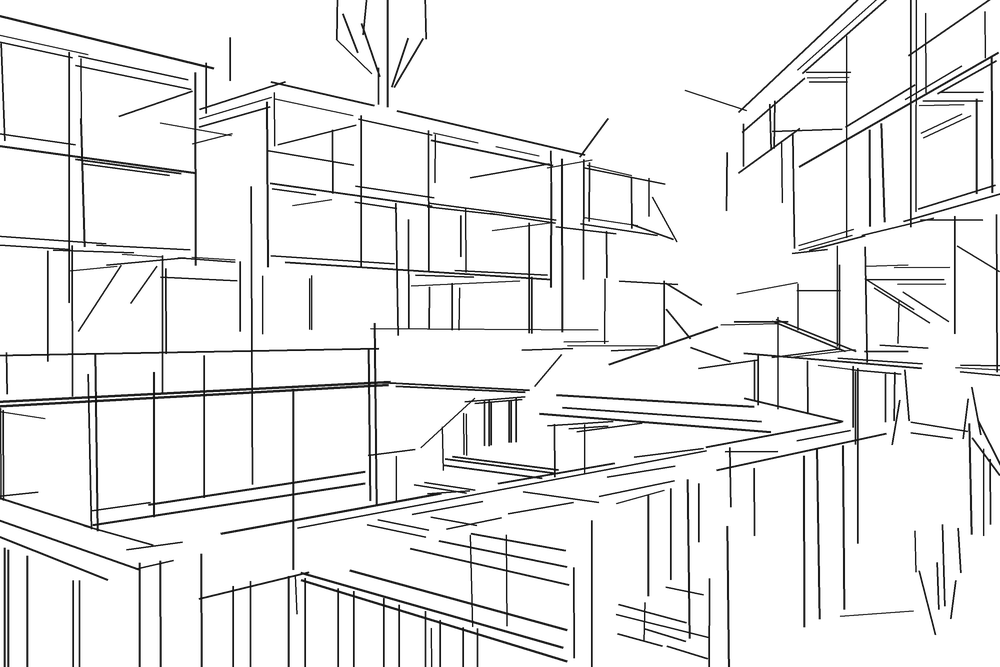
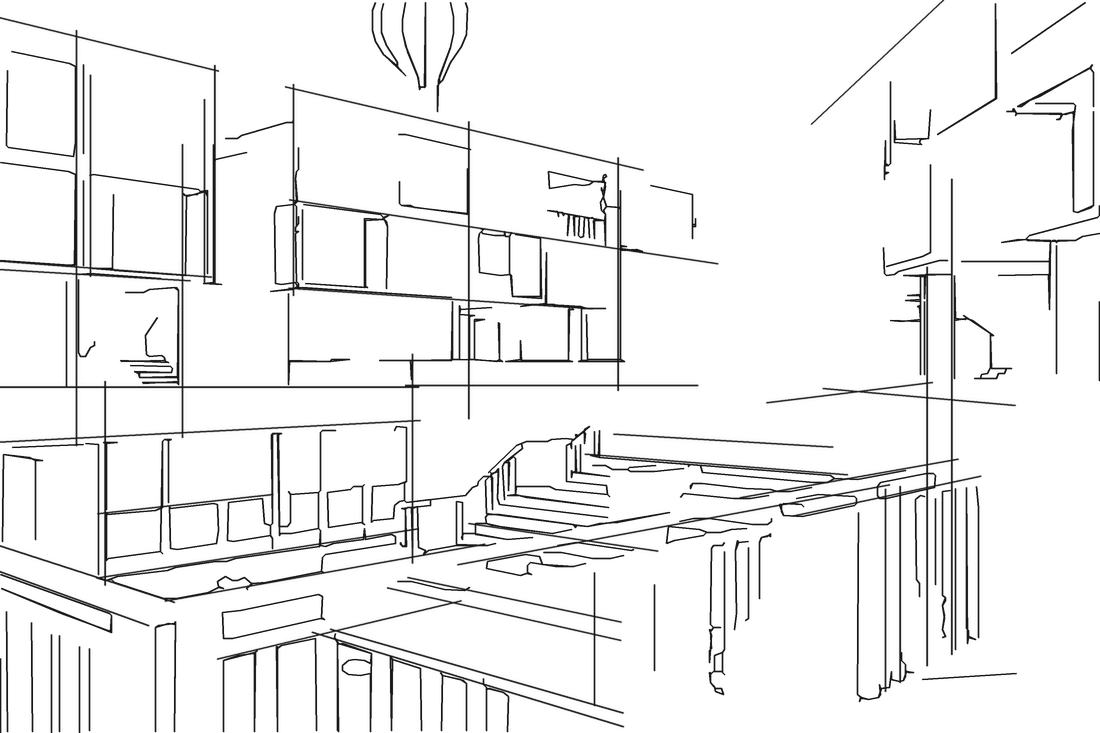
Tracing paper: steadier contour tracing; one credited public-domain section in the homepage flow

diff --git a/zh/index.html b/zh/index.html
@@ -25,10 +25,11 @@
 
 <section class="tp">
 <article class="tset" style="--ar:1.3333"><div class="st"><figure class="desk"><img class="ph" src="../img/westfall-hillside-house/img_00_cover.jpg" alt="" loading="eager"><div class="paper"><img class="ink" src="../img/ink/westfall-hillside-house.png" alt="西崖山地别墅"></div></figure><p class="tcap"><span class="mute">01</span> <a class="u" href="westfall-hillside-house.html">西崖山地别墅</a> <span class="mute">2025</span></p></div></article>
-<article class="tset" style="--ar:1.4993"><div class="st"><figure class="desk"><img class="ph" src="../img/beck-corner-apartment/img_00_cover.jpg" alt="" loading="lazy"><div class="paper"><img class="ink" src="../img/ink/beck-corner-apartment.png" alt="贝克街保障住房"></div></figure><p class="tcap"><span class="mute">02</span> <a class="u" href="beck-corner-apartment.html">贝克街保障住房</a> <span class="mute">2023–2025</span></p></div></article>
-<article class="tset" style="--ar:1.4993"><div class="st"><figure class="desk"><img class="ph" src="../img/798-artist-district/img_00_cover.jpg" alt="" loading="lazy"><div class="paper"><img class="ink" src="../img/ink/798-artist-district.png" alt="798 艺术家生活集"></div></figure><p class="tcap"><span class="mute">03</span> <a class="u" href="798-artist-district.html">798 艺术家生活集</a> <span class="mute">2018</span></p></div></article>
-<article class="tset" style="--ar:1.4993"><div class="st"><figure class="desk"><img class="ph" src="../img/ashton-house-remodel/img_00_cover.jpg" alt="" loading="lazy"><div class="paper"><img class="ink" src="../img/ink/ashton-house-remodel.png" alt="阿什顿街住宅翻新"></div></figure><p class="tcap"><span class="mute">04</span> <a class="u" href="ashton-house-remodel.html">阿什顿街住宅翻新</a> <span class="mute">2025</span></p></div></article>
-<article class="tset" style="--ar:4.0816"><div class="st"><figure class="desk"><img class="ph" src="../img/pku-teaching-building/dwg_south-elev.jpg" alt="" loading="lazy"><div class="paper"><img class="ink" src="../img/ink/pku-teaching-building.png" alt="北京大学马克思主义学院教学楼"></div></figure><p class="tcap"><span class="mute">05</span> <a class="u" href="pku-marxism-school-building.html">北京大学马克思主义学院教学楼</a> <span class="mute">2019</span></p></div></article>
+<article class="tset ref" style="--ar:2.0909"><div class="st"><figure class="desk"><img class="ph" src="../img/refs/schinkel_scan.jpg" alt="" loading="lazy"><div class="paper"><img class="ink" src="../img/refs/schinkel_ink.png" alt=""></div></figure><p class="tcap"><span class="mute">风格参考，非本人作品:</span> <a class="u" href="styles.html">卡尔·弗里德里希·申克尔, 1824</a></p></div></article>
+<article class="tset" style="--ar:1.5007"><div class="st"><figure class="desk"><img class="ph" src="../img/beck-corner-apartment/img_00_cover.jpg" alt="" loading="lazy"><div class="paper"><img class="ink" src="../img/ink/beck-corner-apartment.png" alt="贝克街保障住房"></div></figure><p class="tcap"><span class="mute">02</span> <a class="u" href="beck-corner-apartment.html">贝克街保障住房</a> <span class="mute">2023–2025</span></p></div></article>
+<article class="tset" style="--ar:1.5007"><div class="st"><figure class="desk"><img class="ph" src="../img/798-artist-district/img_00_cover.jpg" alt="" loading="lazy"><div class="paper"><img class="ink" src="../img/ink/798-artist-district.png" alt="798 艺术家生活集"></div></figure><p class="tcap"><span class="mute">03</span> <a class="u" href="798-artist-district.html">798 艺术家生活集</a> <span class="mute">2018</span></p></div></article>
+<article class="tset" style="--ar:1.5007"><div class="st"><figure class="desk"><img class="ph" src="../img/ashton-house-remodel/img_00_cover.jpg" alt="" loading="lazy"><div class="paper"><img class="ink" src="../img/ink/ashton-house-remodel.png" alt="阿什顿街住宅翻新"></div></figure><p class="tcap"><span class="mute">04</span> <a class="u" href="ashton-house-remodel.html">阿什顿街住宅翻新</a> <span class="mute">2025</span></p></div></article>
+<article class="tset" style="--ar:4.0892"><div class="st"><figure class="desk"><img class="ph" src="../img/pku-teaching-building/dwg_south-elev.jpg" alt="" loading="lazy"><div class="paper"><img class="ink" src="../img/ink/pku-teaching-building.png" alt="北京大学马克思主义学院教学楼"></div></figure><p class="tcap"><span class="mute">05</span> <a class="u" href="pku-marxism-school-building.html">北京大学马克思主义学院教学楼</a> <span class="mute">2019</span></p></div></article>
 </section>
 
 <section class="grid tp-index"><h2 class="caps">作品</h2><ul><li><a href="798-artist-district.html">798 艺术家生活集</a><span class="mute">2018</span></li><li><a href="downstairs-bazaar.html">楼下生活集</a><span class="mute">2020</span></li><li><a href="seedlings.html">新绿幼儿园</a><span class="mute">2018</span></li><li><a href="river-lantern.html">河灯</a><span class="mute">2020</span></li><li><a href="westfall-hillside-house.html">西崖山地别墅</a><span class="mute">2025</span></li><li><a href="the-ark.html">方舟</a><span class="mute">2019</span></li><li><a href="ashton-house-remodel.html">阿什顿街住宅翻新</a><span class="mute">2025</span></li><li><a href="pku-marxism-school-building.html">北京大学马克思主义学院教学楼</a><span class="mute">2019</span></li><li><a href="beck-corner-apartment.html">贝克街保障住房</a><span class="mute">2023–2025</span></li></ul></section>

diff --git a/index.html b/index.html
@@ -25,10 +25,11 @@
 
 <section class="tp">
 <article class="tset" style="--ar:1.3333"><div class="st"><figure class="desk"><img class="ph" src="img/westfall-hillside-house/img_00_cover.jpg" alt="" loading="eager"><div class="paper"><img class="ink" src="img/ink/westfall-hillside-house.png" alt="Westfall Hillside House"></div></figure><p class="tcap"><span class="mute">01</span> <a class="u" href="westfall-hillside-house.html">Westfall Hillside House</a> <span class="mute">2025</span></p></div></article>
-<article class="tset" style="--ar:1.4993"><div class="st"><figure class="desk"><img class="ph" src="img/beck-corner-apartment/img_00_cover.jpg" alt="" loading="lazy"><div class="paper"><img class="ink" src="img/ink/beck-corner-apartment.png" alt="Beck Corner Apartment"></div></figure><p class="tcap"><span class="mute">02</span> <a class="u" href="beck-corner-apartment.html">Beck Corner Apartment</a> <span class="mute">2023–2025</span></p></div></article>
-<article class="tset" style="--ar:1.4993"><div class="st"><figure class="desk"><img class="ph" src="img/798-artist-district/img_00_cover.jpg" alt="" loading="lazy"><div class="paper"><img class="ink" src="img/ink/798-artist-district.png" alt="The Collage Community"></div></figure><p class="tcap"><span class="mute">03</span> <a class="u" href="798-artist-district.html">The Collage Community</a> <span class="mute">2018</span></p></div></article>
-<article class="tset" style="--ar:1.4993"><div class="st"><figure class="desk"><img class="ph" src="img/ashton-house-remodel/img_00_cover.jpg" alt="" loading="lazy"><div class="paper"><img class="ink" src="img/ink/ashton-house-remodel.png" alt="Ashton House Remodel"></div></figure><p class="tcap"><span class="mute">04</span> <a class="u" href="ashton-house-remodel.html">Ashton House Remodel</a> <span class="mute">2025</span></p></div></article>
-<article class="tset" style="--ar:4.0816"><div class="st"><figure class="desk"><img class="ph" src="img/pku-teaching-building/dwg_south-elev.jpg" alt="" loading="lazy"><div class="paper"><img class="ink" src="img/ink/pku-teaching-building.png" alt="Marxism School Building, PKU"></div></figure><p class="tcap"><span class="mute">05</span> <a class="u" href="pku-marxism-school-building.html">Marxism School Building, PKU</a> <span class="mute">2019</span></p></div></article>
+<article class="tset ref" style="--ar:2.0909"><div class="st"><figure class="desk"><img class="ph" src="img/refs/schinkel_scan.jpg" alt="" loading="lazy"><div class="paper"><img class="ink" src="img/refs/schinkel_ink.png" alt=""></div></figure><p class="tcap"><span class="mute">Style reference, not my work:</span> <a class="u" href="styles.html">Karl Friedrich Schinkel, 1824</a></p></div></article>
+<article class="tset" style="--ar:1.5007"><div class="st"><figure class="desk"><img class="ph" src="img/beck-corner-apartment/img_00_cover.jpg" alt="" loading="lazy"><div class="paper"><img class="ink" src="img/ink/beck-corner-apartment.png" alt="Beck Corner Apartment"></div></figure><p class="tcap"><span class="mute">02</span> <a class="u" href="beck-corner-apartment.html">Beck Corner Apartment</a> <span class="mute">2023–2025</span></p></div></article>
+<article class="tset" style="--ar:1.5007"><div class="st"><figure class="desk"><img class="ph" src="img/798-artist-district/img_00_cover.jpg" alt="" loading="lazy"><div class="paper"><img class="ink" src="img/ink/798-artist-district.png" alt="The Collage Community"></div></figure><p class="tcap"><span class="mute">03</span> <a class="u" href="798-artist-district.html">The Collage Community</a> <span class="mute">2018</span></p></div></article>
+<article class="tset" style="--ar:1.5007"><div class="st"><figure class="desk"><img class="ph" src="img/ashton-house-remodel/img_00_cover.jpg" alt="" loading="lazy"><div class="paper"><img class="ink" src="img/ink/ashton-house-remodel.png" alt="Ashton House Remodel"></div></figure><p class="tcap"><span class="mute">04</span> <a class="u" href="ashton-house-remodel.html">Ashton House Remodel</a> <span class="mute">2025</span></p></div></article>
+<article class="tset" style="--ar:4.0892"><div class="st"><figure class="desk"><img class="ph" src="img/pku-teaching-building/dwg_south-elev.jpg" alt="" loading="lazy"><div class="paper"><img class="ink" src="img/ink/pku-teaching-building.png" alt="Marxism School Building, PKU"></div></figure><p class="tcap"><span class="mute">05</span> <a class="u" href="pku-marxism-school-building.html">Marxism School Building, PKU</a> <span class="mute">2019</span></p></div></article>
 </section>
 
 <section class="grid tp-index"><h2 class="caps">Work</h2><ul><li><a href="798-artist-district.html">The Collage Community</a><span class="mute">2018</span></li><li><a href="downstairs-bazaar.html">Downstairs Bazaar</a><span class="mute">2020</span></li><li><a href="seedlings.html">Seedlings</a><span class="mute">2018</span></li><li><a href="river-lantern.html">River Lantern</a><span class="mute">2020</span></li><li><a href="westfall-hillside-house.html">Westfall Hillside House</a><span class="mute">2025</span></li><li><a href="the-ark.html">The Ark</a><span class="mute">2019</span></li><li><a href="ashton-house-remodel.html">Ashton House Remodel</a><span class="mute">2025</span></li><li><a href="pku-marxism-school-building.html">Marxism School Building, PKU</a><span class="mute">2019</span></li><li><a href="beck-corner-apartment.html">Beck Corner Apartment</a><span class="mute">2023–2025</span></li></ul></section>

diff --git a/src/ink2.py b/src/ink2.py
@@ -1,0 +1,160 @@
+"""Contour ink tracing (exp branches only), second approach.
+Straight structural lines (LSD, merged, snapped, joined at corners) plus
+skeletonised XDoG contours simplified to polylines, all at one steady pen weight.
+Foliage (green, saturated areas) is left out, as in a measured drawing."""
+import sys, math
+import numpy as np, cv2
+from PIL import Image, ImageDraw
+from skimage.morphology import skeletonize
+INK=(22,22,22)
+
+def lines_of(g, W):
+    H=g.shape[0]
+    lsd=cv2.createLineSegmentDetector(cv2.LSD_REFINE_STD)
+    L=lsd.detect(g)[0]
+    return [] if L is None else L.reshape(-1,4)
+
+def contrast(gf,W,H,x0,y0,x1,y1):
+    n=np.array([y0-y1,x1-x0]);l=np.hypot(*n) or 1;n=n/l*3
+    ts=np.linspace(.15,.85,9);xs=x0+(x1-x0)*ts;ys=y0+(y1-y0)*ts
+    def s(dx,dy):
+        return gf[np.clip((ys+dy).astype(int),0,H-1),np.clip((xs+dx).astype(int),0,W-1)]
+    return float(np.abs(s(*n)-s(*-n)).mean())
+
+def merge(items, gap, dang=2.5, drho=3):
+    items=sorted(items,key=lambda r:-r[5]); used=[False]*len(items); out=[]
+    for i,a in enumerate(items):
+        if used[i]: continue
+        th=a[0];ux,uy=math.cos(th),math.sin(th);nx,ny=-uy,ux
+        rho=a[1]*nx+a[2]*ny; ts=[a[1]*ux+a[2]*uy,a[3]*ux+a[4]*uy];t0,t1=min(ts),max(ts);used[i]=True;cov=a[5]
+        ch=True
+        while ch:
+            ch=False
+            for j,b in enumerate(items):
+                if used[j]: continue
+                d=abs(b[0]-th);d=min(d,math.pi-d)
+                if d>math.radians(dang): continue
+                if abs(b[1]*nx+b[2]*ny-rho)>drho or abs(b[3]*nx+b[4]*ny-rho)>drho: continue
+                q=[b[1]*ux+b[2]*uy,b[3]*ux+b[4]*uy]
+                if min(q)>t1+gap or max(q)<t0-gap: continue
+                t0,t1=min(t0,min(q)),max(t1,max(q));used[j]=True;cov+=b[5];ch=True
+        out.append([th,rho*nx+t0*ux,rho*ny+t0*uy,rho*nx+t1*ux,rho*ny+t1*uy,t1-t0,cov])
+    return out
+
+def inter(a,b):
+    x1,y1,x2,y2=a[:4];x3,y3,x4,y4=b[:4]
+    d=(x1-x2)*(y3-y4)-(y1-y2)*(x3-x4)
+    if abs(d)<1e-6: return None
+    t=((x1-x3)*(y3-y4)-(y1-y3)*(x3-x4))/d
+    u=-((x1-x2)*(y1-y3)-(y1-y2)*(x1-x3))/d
+    return t,u,(x1+t*(x2-x1),y1+t*(y2-y1))
+
+def trace(src,out,W=1000,min_len=.045,cthr=18,snap=.03,weight=1.5,seed=5,maxn=140):
+    rng=np.random.default_rng(seed)
+    im=Image.open(src).convert('RGB');w0,h0=im.size;im=im.resize((W,round(h0*W/w0)),Image.LANCZOS)
+    g=cv2.cvtColor(np.asarray(im),cv2.COLOR_RGB2GRAY);g=cv2.bilateralFilter(g,9,50,9);H=g.shape[0];gf=g.astype(np.float32)
+    raw=[]
+    for x0,y0,x1,y1 in lines_of(g,W):
+        l=math.hypot(x1-x0,y1-y0)
+        if l<10: continue
+        raw.append([math.atan2(y1-y0,x1-x0)%math.pi,x0,y0,x1,y1,l])
+    m=merge(raw,.035*W)
+    segs=[]
+    for th,x0,y0,x1,y1,l,cov in m:
+        if l<min_len*W or cov/l<.55: continue
+        # snap verticals (architectural convention)
+        if abs(th-math.pi/2)<math.radians(3):
+            mx=(x0+x1)/2;x0=x1=mx
+        elif th<math.radians(2) or th>math.pi-math.radians(2):
+            my=(y0+y1)/2;y0=y1=my
+        c=contrast(gf,W,H,x0,y0,x1,y1)
+        if c<cthr: continue
+        segs.append([x0,y0,x1,y1,l,c])
+    segs.sort(key=lambda s:-s[4]*min(1,s[5]/60)); segs=segs[:maxn]
+    # thin crowded parallels
+    keep=[]
+    for s in segs:
+        th=math.atan2(s[3]-s[1],s[2]-s[0])%math.pi;mx,my=(s[0]+s[2])/2,(s[1]+s[3])/2;cr=0
+        for k in keep:
+            kt=math.atan2(k[3]-k[1],k[2]-k[0])%math.pi;d=abs(kt-th);d=min(d,math.pi-d)
+            if d<math.radians(4) and math.hypot((k[0]+k[2])/2-mx,(k[1]+k[3])/2-my)<.025*W+ .3*min(k[4],s[4]): cr+=1
+        if cr<2: keep.append(s)
+    segs=keep
+    # endpoint snapping: extend/trim each end to the nearest crossing line within reach
+    R=snap*W
+    for i,a in enumerate(segs):
+        L=math.hypot(a[2]-a[0],a[3]-a[1])
+        for end in (0,1):
+            best=None
+            for j,b in enumerate(segs):
+                if i==j: continue
+                r=inter(a,b)
+                if not r: continue
+                t,u,p=r
+                tt=t if end==1 else 1-t
+                # where along a the crossing sits relative to this end, in px
+                dist=(tt-1)*L
+                if not(-R*.6<dist<R): continue
+                Lb=b[4]; 
+                if not(-R/Lb<u<1+R/Lb): continue
+                ang=abs(math.atan2(b[3]-b[1],b[2]-b[0])-math.atan2(a[3]-a[1],a[2]-a[0]))%math.pi
+                if min(ang,math.pi-ang)<math.radians(20): continue
+                if best is None or abs(dist)<abs(best[0]): best=(dist,p)
+            if best:
+                if end==0: a[0],a[1]=best[1]
+                else: a[2],a[3]=best[1]
+    SS=3;cv=Image.new('L',(W*SS,H*SS),0);d=ImageDraw.Draw(cv)
+    for x0,y0,x1,y1,l,c in segs:
+        L=math.hypot(x1-x0,y1-y0) or 1;ux,uy=(x1-x0)/L,(y1-y0)/L
+        o0=4+rng.random()*5;o1=4+rng.random()*5
+        d.line([((x0-ux*o0)*SS,(y0-uy*o0)*SS),((x1+ux*o1)*SS,(y1+uy*o1)*SS)],fill=255,width=round(weight*SS))
+    a=cv.resize((W,H),Image.LANCZOS);rgba=Image.new('RGBA',(W,H),INK+(0,));rgba.putalpha(a);rgba.save(out,optimize=True)
+    return len(segs)
+def run(src,out,W=1100,sigma=1.1,p=24,eps=-0.015,minlen=70,weight=1.7,struct=True,veg=80,wig=14):
+    im=Image.open(src).convert('RGB');w0,h0=im.size;im=im.resize((W,round(h0*W/w0)),Image.LANCZOS)
+    a=np.asarray(im)
+    for _ in range(3): a=cv2.bilateralFilter(a,7,60,7)
+    a=cv2.pyrMeanShiftFiltering(a,10,22)
+    g=cv2.cvtColor(a,cv2.COLOR_RGB2GRAY)
+    g=cv2.createCLAHE(2.0,(8,8)).apply(g).astype(np.float32)/255
+    g1=cv2.GaussianBlur(g,(0,0),sigma);g2=cv2.GaussianBlur(g,(0,0),sigma*1.6)
+    d=(1+p)*g1-p*g2
+    ink=(d<eps)
+    sk=skeletonize(ink).astype(np.uint8)
+    n,lab,st,_=cv2.connectedComponentsWithStats(sk,8)
+    sk=np.isin(lab,[i for i in range(1,n) if st[i,4]>=minlen]).astype(np.uint8)
+    H=sk.shape[0];SS=3
+    # texture mask from the unsmoothed image: foliage / gravel are busy, walls are calm
+    hsv=cv2.cvtColor(np.asarray(im),cv2.COLOR_RGB2HSV)
+    busy=((hsv[...,0]>=22)&(hsv[...,0]<=95)&(hsv[...,1]>38)).astype(np.uint8)
+    busy=cv2.dilate(busy,np.ones((7,7),np.uint8))>0
+    cv=Image.new('L',(W*SS,H*SS),0);dr=ImageDraw.Draw(cv)
+    n,lab,st,_=cv2.connectedComponentsWithStats(sk,8)
+    for i in range(1,n):
+        m=(lab==i)
+        if busy[m].mean()>.6: continue
+        cs,_=cv2.findContours(m.astype(np.uint8),cv2.RETR_EXTERNAL,cv2.CHAIN_APPROX_NONE)
+        for c in cs:
+            ap=cv2.approxPolyDP(c,1.2,True)[:,0,:]
+            per=cv2.arcLength(c,True)/2
+            if len(ap)/max(per,1)*100>wig: continue
+            pts=[(float(x)*SS+SS/2,float(y)*SS+SS/2) for x,y in ap]
+            if len(pts)>1: dr.line(pts+[pts[0]],fill=255,width=round(weight*SS),joint='curve')
+    if struct:
+        import tempfile; tmp=tempfile.mktemp(suffix='.png')
+        trace(src,tmp,W=W,min_len=.1,weight=weight,maxn=60)
+        s=Image.open(tmp).split()[3].resize((W*SS,H*SS),Image.LANCZOS)
+        cv=Image.fromarray(np.maximum(np.asarray(cv),np.asarray(s)))
+    al=cv.resize((W,H),Image.LANCZOS)
+    o=Image.new('RGBA',(W,H),INK+(0,));o.putalpha(al);o.save(out,optimize=True)
+SETTINGS = {'westfall-hillside-house': dict(sigma=.9, eps=-.004, p=30, minlen=45, wig=16)}
+
+def batch():
+    import json, os
+    meta = json.load(open('assets/ink/meta.json'))
+    for folder, src in meta.items():
+        run(src, f'assets/ink/{folder}.png', **SETTINGS.get(folder, {}))
+        print(folder)
+
+if __name__ == '__main__':
+    batch()

diff --git a/build.py b/build.py
@@ -288,6 +288,14 @@ def home(lang):
                     f'<div class="paper"><img class="ink" src="{r}{k["ink"]}" alt="{title}"></div></figure>'
                     f'<p class="tcap"><span class="mute">{len(sets) + 1:02d}</span> <a class="u" href="{p["slug"]}.html">{title}</a> <span class="mute">{year_of(p)}</span></p>'
                     f'</div></article>')
+    # 一张公有领域的大师剖面夹在第一、二个项目之间，示范目标线条；标明是占位参考、非本人作品
+    x = REFS[0]; f = ref_files(x['key']); i_ = 0 if lang == 'en' else 1
+    tag = 'Style reference, not my work' if lang == 'en' else '风格参考，非本人作品'
+    sets.insert(1, f'<article class="tset ref" style="--ar:{f["ar"]:.4f}"><div class="st">'
+                   f'<figure class="desk"><img class="ph" src="{r}{f["scan"]}" alt="" loading="lazy">'
+                   f'<div class="paper"><img class="ink" src="{r}{f["ink"]}" alt=""></div></figure>'
+                   f'<p class="tcap"><span class="mute">{tag}:</span> <a class="u" href="styles.html">{E(x["author"][i_])}, {x["year"]}</a></p>'
+                   f'</div></article>')
     rank = lambda p: HOME_ORDER.index(p['slug']) if p['slug'] in HOME_ORDER else len(HOME_ORDER)
     idx = ''.join(f'<li><a href="{p["slug"]}.html">{E(T(p["title"], lang))}</a><span class="mute">{year_of(p)}</span></li>'
                   for p in sorted(PROJECTS, key=rank) if p['_any'])
